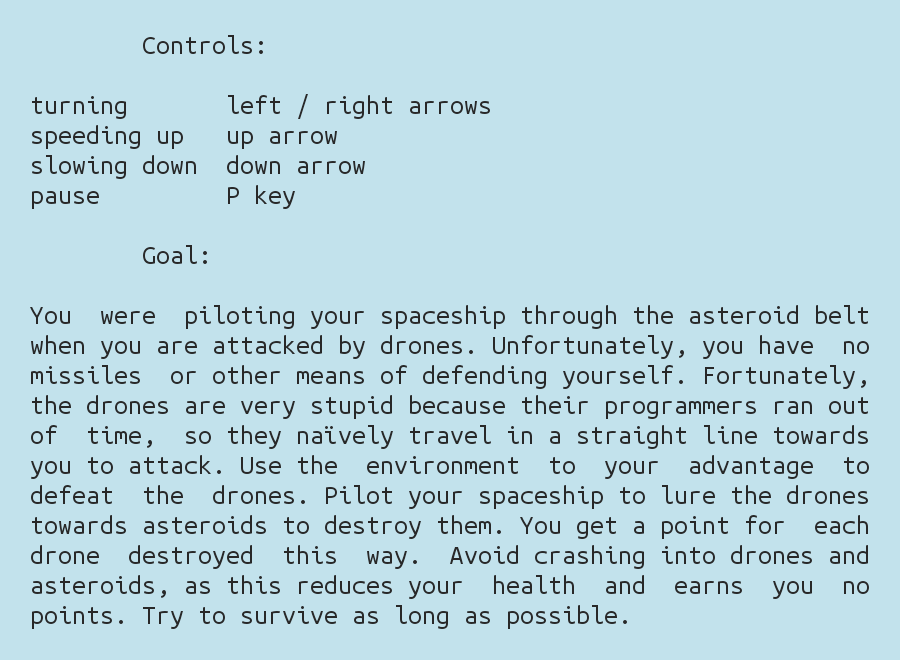
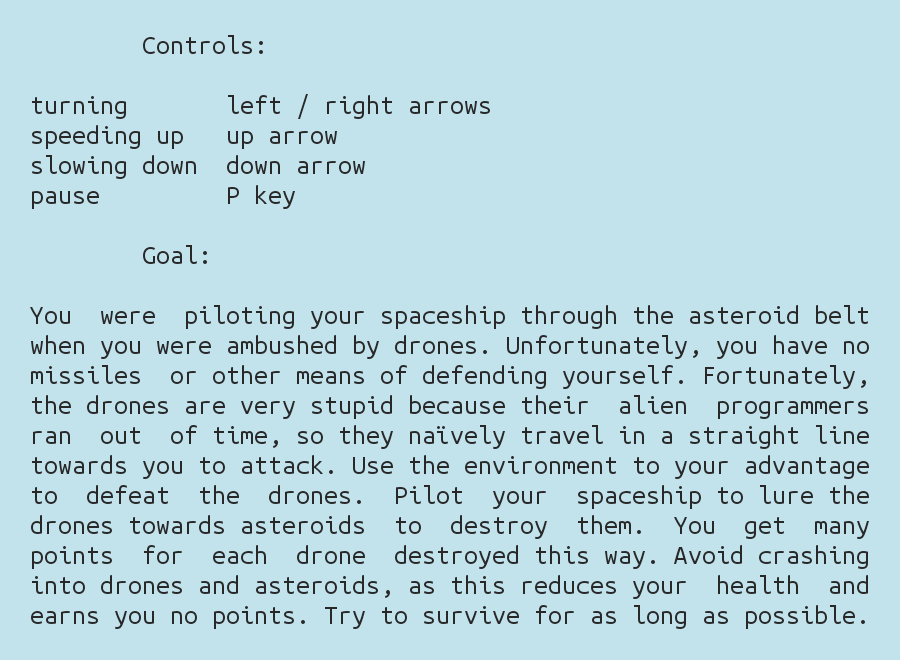
Fixed no spawning after pause bug. Added command line switches for debugging. Edited instructions.

diff --git a/src/com/keepkoding/SpaceShooter.java b/src/com/keepkoding/SpaceShooter.java
@@ -49,14 +49,13 @@ public class SpaceShooter extends JPanel{
     
     static long currentTick;
     private static int hitpoints, points;
-    private static long nextEnemySpawnTick, nextAsteroidSpawnTick;
     private static long ticksPerAsteroidSpawn, ticksPerEnemySpawn;
     
     private static final BufferedImage pointsLabel;
     private static final BufferedImage[] digits;
     private static final Menu mainMenu, inGameMenu;
     
-    private static final boolean addPointsCheat = false, debugPrint = false;
+    private static boolean verbose = false;
     private static final int musicClipCount = 4, pointsPerKill = 100;
     private static int currentClipNum = 0, pointsPerSecond, pointsPerSecondCap;
     
@@ -130,16 +129,6 @@ public class SpaceShooter extends JPanel{
             540, 17,
             KeyEvent.VK_P
         ));
-        
-        // I need this because I suck at the game :D
-        if (addPointsCheat) {
-            inGameMenu.add(new Menu.Button(
-                ADD_POINTS_CHEAT,
-                ImageLoader.load("text/cheat.png"),
-                780, 17,
-                KeyEvent.VK_C
-            ));
-        }
     }
     
     private SpaceShooter() {
@@ -169,10 +158,8 @@ public class SpaceShooter extends JPanel{
         currentTick = 0;
         hitpoints = maxHitpoints;
         points = 0;
-        nextEnemySpawnTick = 0;
-        nextAsteroidSpawnTick = 0;
         
-        if (debugPrint) {
+        if (verbose) {
             System.err.println("Difficulty level: " + difficulty);
         }
         
@@ -207,9 +194,6 @@ public class SpaceShooter extends JPanel{
     }
     
     private static void updateGame() {
-
-        ++currentTick;
-
         playerShip.update(incSpeed, decSpeed, incAngle, decAngle);
 
         int asteroidCount = asteroids.size();
@@ -238,7 +222,7 @@ public class SpaceShooter extends JPanel{
                     tmpAsteroids.add(a);
                 }
             } else {
-                if (debugPrint) {
+                if (verbose) {
                     System.err.println(
                         "\33[33mRemoving off-screen asteroid\33[0m");
                 }
@@ -290,24 +274,24 @@ public class SpaceShooter extends JPanel{
         }
 
         // Add another asteroid if now is the time to do it.
-        if (nextAsteroidSpawnTick == currentTick) {
-            if (debugPrint) {
+        if (currentTick % ticksPerAsteroidSpawn == 0) {
+            if (verbose) {
                 System.err.println("\33[34mSpawning asteroid at tick\33[0m "
                     + currentTick);
             }
             asteroids.add(new Asteroid());
-            nextAsteroidSpawnTick += ticksPerAsteroidSpawn;
         }
         
         // Add another enemy if now is the time to do it.
-        if (nextEnemySpawnTick == currentTick) {
-            if (debugPrint) {
+        if (currentTick % ticksPerEnemySpawn == 0) {
+            if (verbose) {
                 System.err.println("\33[32mSpawning enemy at tick\33[0m "
                     + currentTick);
             }
             enemies.add(new EnemyShip());
-            nextEnemySpawnTick += ticksPerEnemySpawn;
         }
+        
+        ++currentTick;
     }
     
     private static boolean checkEnemyAsteroidCollision(EnemyShip enemyArg) {
@@ -425,6 +409,27 @@ public class SpaceShooter extends JPanel{
     }
     
     public static void main(String[] args) {
+        boolean cheatsAdded = false;
+        for (String arg : args) {
+            if (arg.equals("--cheat")) {
+                if (!cheatsAdded) {
+                    inGameMenu.add(new Menu.Button(
+                        ADD_POINTS_CHEAT,
+                        ImageLoader.load("text/cheat.png"),
+                        780, 17,
+                        KeyEvent.VK_C
+                    ));
+                }
+                cheatsAdded = true;
+            } else if (arg.equals("--verbose") || arg.equals("-v")) {
+                verbose = true;
+            } else {
+                System.err.printf("Unknown argument '%s'%n", arg);
+                System.err.println("Expects --cheat or --verbose.");
+                System.exit(1);
+            }
+            
+        }
         SpaceShooter gamePanel = null;
         musicClips[currentClipNum].loop();
         
@@ -498,6 +503,7 @@ public class SpaceShooter extends JPanel{
                         break;
                     case ADD_POINTS_CHEAT:
                         points += 7;
+                        hitpoints = maxHitpoints;
                         break;
                 }
                 

diff --git a/src/com/keepkoding/assets/images/text/make.py b/src/com/keepkoding/assets/images/text/make.py
@@ -9,7 +9,7 @@ pause         P key
 
         Goal:
 
-You were piloting your spaceship through the asteroid belt when you are attacked by drones. Unfortunately, you have no missiles or other means of defending yourself. Fortunately, the drones are very stupid because their programmers ran out of time, so they na\xefvely travel in a straight line towards you to attack. Use the environment to your advantage to defeat the drones. Pilot your spaceship to lure the drones towards asteroids to destroy them. You get a point for each drone destroyed this way. Avoid crashing into drones and asteroids, as this reduces your health and earns you no points. Try to survive as long as possible.
+You were piloting your spaceship through the asteroid belt when you were ambushed by drones. Unfortunately, you have no missiles or other means of defending yourself. Fortunately, the drones are very stupid because their alien programmers ran out of time, so they na\xefvely travel in a straight line towards you to attack. Use the environment to your advantage to defeat the drones. Pilot your spaceship to lure the drones towards asteroids to destroy them. You get many points for each drone destroyed this way. Avoid crashing into drones and asteroids, as this reduces your health and earns you no points. Try to survive for as long as possible.
 """
 
 import AcmeWordSmasher
